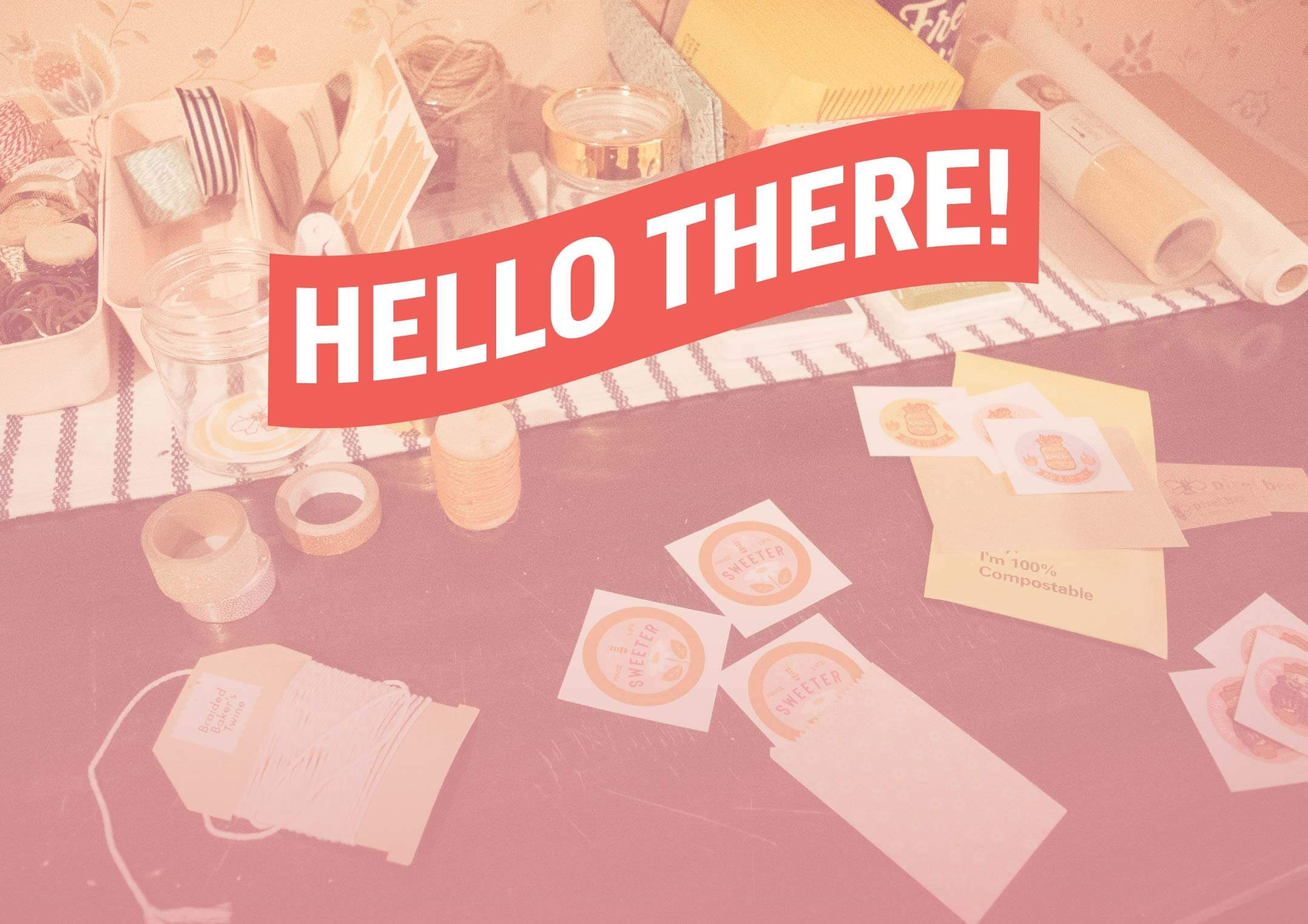
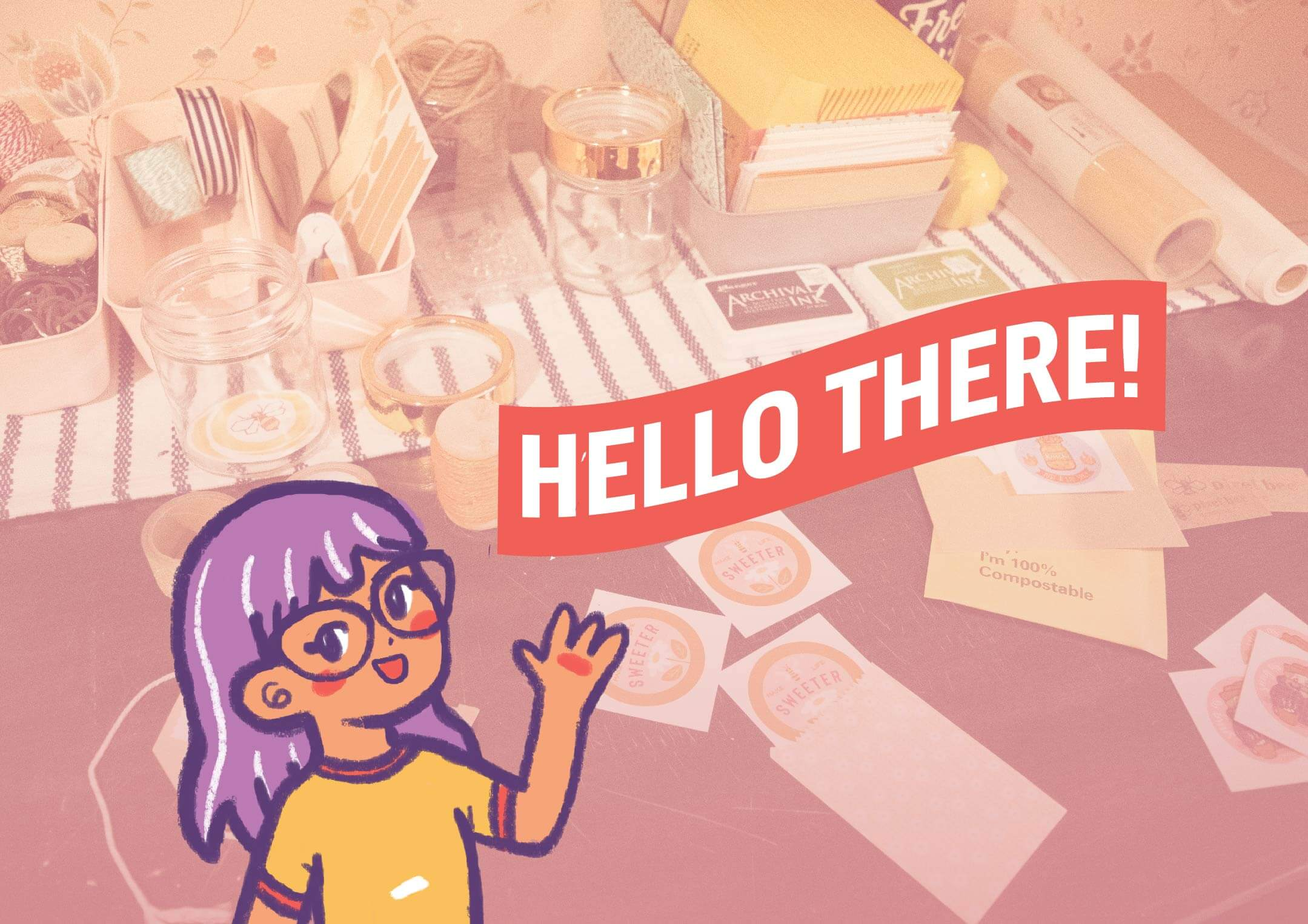
Added Home hero images and footer image. Updated existing images

diff --git a/practice_ecommerce/src/components/pages/HomePage.js b/practice_ecommerce/src/components/pages/HomePage.js
@@ -9,8 +9,8 @@ import '../../styles/HomePage.scss';
 
 
 // images
-import title from '../../assets/images/Branding/Hero_mobile.jpg';
-import titlelarge from '../../assets/images/Branding/Home_Banner.jpg'
+import heroMobile from '../../assets/images/Branding/Hero_mobile.jpg';
+import heroLarge from '../../assets/images/Branding/Hero_large.jpg'
 import banner from '../../assets/images/Branding/Home_Find.jpg';
 import gift from '../../assets/images/Branding/Home_Gift.jpg';
 import heart from '../../assets/images/Branding/Home_Heart.jpg';
@@ -24,17 +24,17 @@ function HomePage(props){
         props.history.push(`${path}`);
     }
 
-    function renderTitleImage(){
+    function renderHeroImage(){
         return props.width > 991
-        ? titlelarge
-        : title
+        ? heroLarge
+        : heroMobile
     }
     
     return(
         <main className='home'>
             <div className='home-container'>
                 <div className='title'>
-                    <img src={renderTitleImage()}  alt='pixel bee creative shop'/>
+                    <img src={renderHeroImage()}  alt='pixel bee creative shop'/>
                 </div>
                 <div className='banner'>
                     <img src={banner}  alt='find something'/>

diff --git a/practice_ecommerce/src/components/Footer.js b/practice_ecommerce/src/components/Footer.js
@@ -2,7 +2,7 @@ import React from 'react';
 
 import '../styles/Footer.scss';
 
-import me from '../assets/images/Branding/Profile Pic-03.jpg';
+import footerImage from '../assets/images/Branding/footer_image.png';
 const colb = 'https://www.colbypeyton.com/';
 const instagram = '';
 const etsy = '';
@@ -21,7 +21,7 @@ function Footer(props){
             <footer className='footer large'>
                 <div className='footer-container'>
                     <div className='img-container'>
-                        <img src={me} alt='Me' />
+                        <img src={footerImage} alt='Me' />
                     </div>
                     <div className='info'>
                         <ul>
